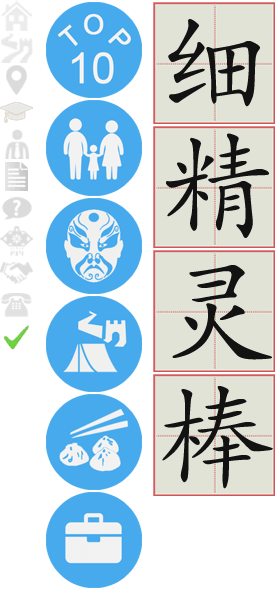
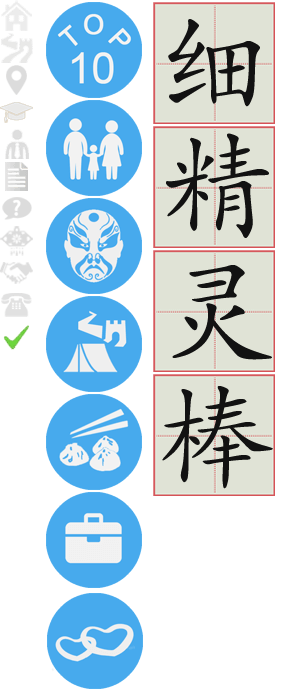
up

diff --git a/frontend/web/statics/css/site.css b/frontend/web/statics/css/site.css
@@ -213,10 +213,11 @@ body {
   font-size: 20px;
   background-color: #4D423C;
   border: 1px solid #E0E3D6;
+  height: 48px;
 }
 .home-categories i.glyphicon{
   color: #47AAED;
-  margin: 12px 5px;
+  margin: 14px 15px;
 }
 .home-categories i.icon{
   display: block;
@@ -226,25 +227,28 @@ body {
   background-image: url(../images/icons.png);
   background-repeat: no-repeat;
   background-size: 115px;
-  margin: 5px 15px 2px 5px;
+  margin: 3px 15px 2px 5px;
 }
 .home-categories .icon-mostpopular{
-  background-position: -19px 0px;
+  background-position: -18px 0px;
 }
 .home-categories .icon-familyvacation {
-  background-position: -19px -41px
+  background-position: -18px -39px
 }
 .home-categories .icon-culture{
-  background-position: -19px -81px;
+  background-position: -18px -78px;
 }
 .home-categories .icon-adventurous{
-  background-position: -19px -121px;
+  background-position: -18px -117px;
 }
 .home-categories .icon-foodie{
-  background-position: -19px -161px;
+  background-position: -18px -156px;
 }
 .home-categories .icon-ataglance{
-  background-position: -19px -201px;
+  background-position: -18px -196px;
+}
+.home-categories .icon-romantic{
+  background-position: -19px -235px;
 }
 .home-categories span{
   line-height: 50px;
@@ -280,7 +284,8 @@ body {
     padding: 0;
 }
 .site-index .list-group i.glyphicon {
-    color: #47AAED;
+  font-size: 16px;
+  color: #47AAED;
 }
 
 div#social-media-icons-container {
